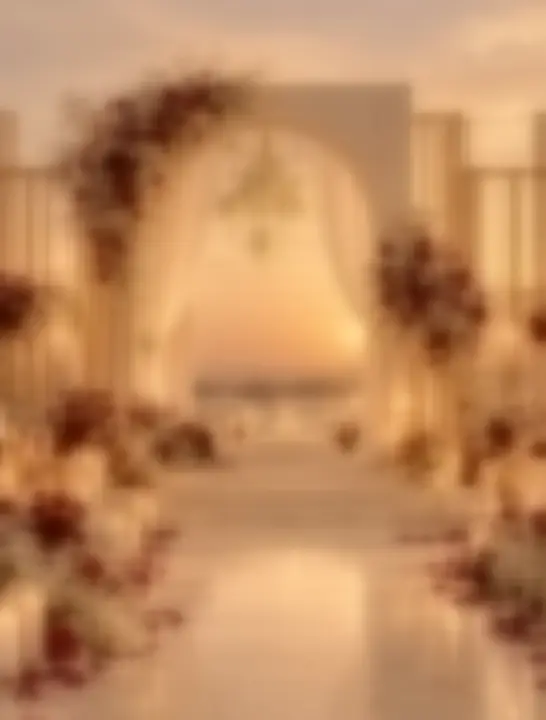
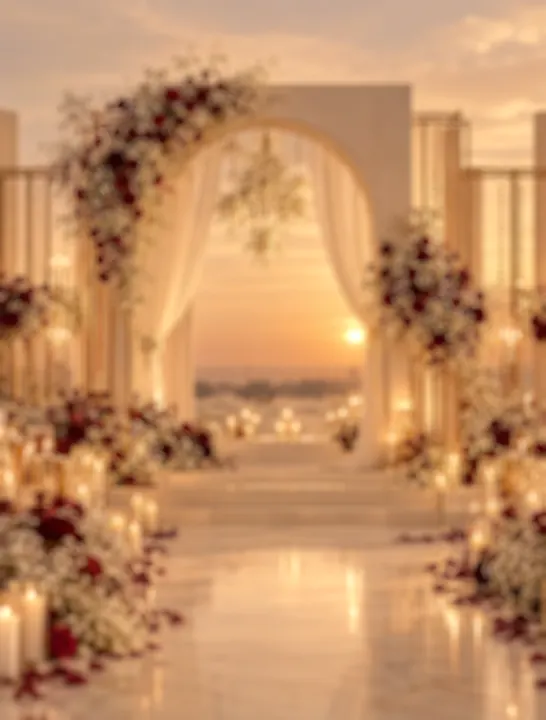
Scroll stops at each moment, camera-style focus, wedding link preview
- Scroll snaps to resting points about a screen apart; one flick never skips the groom, bride or couple
- Focus pulls through two baked lens-blur levels (disc bokeh, scripts/lens-blur.py) with slight breathing; lighter than before
- Drop scroll-speed motion blur; near lanterns and petals get depth-of-field softness instead
- Venue maps use the plain road map instead of satellite
- Nikah at 09:00
- Link preview and details heading invite to the wedding, not the Nikah (og-v3.jpg)

diff --git a/src/scenes/journey.ts b/src/scenes/journey.ts
@@ -9,6 +9,9 @@
  *   0.70  the couple together, "Two hearts, one Nikah"; background softens again (0.70–0.80)
  *   1.00  the details page (#details, normal scrolling) slides up over the couple
  *
+ * Scroll snaps to STOPS (0, 0.12, 0.24, 0.39, 0.555, 0.70, 0.86, 1) and the details page,
+ * so one flick moves one step and never flies past the groom, bride or couple.
+ *
  * Tweak the timeline by editing the numbers marked in each section.
  */
 import { $, clamp, ease, mix, place, prefersReducedMotion, ss } from '../lib/motion';
@@ -30,6 +33,9 @@ const COPY: [string, number, number, number, number][] = [
   ['nameB', 0.47, 0.53, 0.58, 0.62],
   ['together', 0.72, 0.78, 2, 3],
 ];
+/** Resting points about a screen apart, so a short swipe always moves on.
+ *  0.39 the groom, 0.555 the bride and 0.86 the couple sit where their copy is fully shown */
+const STOPS = [0, 0.12, 0.24, 0.39, 0.555, 0.70, 0.86, 1];
 
 export function initJourney() {
   const reduce = prefersReducedMotion();
@@ -48,7 +54,7 @@ export function initJourney() {
   void document.fonts.ready.then(measure);
 
   const night = $('night'), court = $('court'), aisle = $('aisle'), mid = $('mid'), outer = $('outer');
-  const nightSoft = $('nightSoft'), courtSoft = $('courtSoft'), aisleSoft = $('aisleSoft');
+  const nightSoft = [$('nightSoft1'), $('nightSoft')], courtSoft = [$('courtSoft1'), $('courtSoft')], aisleSoft = [$('aisleSoft1'), $('aisleSoft')];
   const pGroom = $('pGroom'), pBride = $('pBride'), couple = $('dCouple');
   const veil = $('veil'), scrim = $('scrim');
   const hint = $('hint'), skip = $('skip'), track = $('track'), details = $('details');
@@ -62,7 +68,7 @@ export function initJourney() {
     el.alt = '';
     el.style.transformOrigin = '50% 0';
     lanternLayer.appendChild(el);
-    return { el, i, X, z0: 1.4 + i * 0.62, drop: 0.25 + ((i * 37) % 5) * 0.08, ph: i * 1.3, ratio: LANTERN_RATIOS[i % 5] };
+    return { el, i, X, z0: 1.4 + i * 0.62, drop: 0.25 + ((i * 37) % 5) * 0.08, ph: i * 1.3, ratio: LANTERN_RATIOS[i % 5], dof: 0 };
   });
 
   const petalCount = reduce ? 0 : innerWidth < 600 ? 12 : 20;
@@ -71,11 +77,14 @@ export function initJourney() {
     el.src = `/img/p${i % PETAL_SPRITES}.webp`;
     el.alt = '';
     el.style.width = `${14 + Math.random() * 24}px`;
+    const d = 0.5 + Math.random();
+    // depth of field: petals near the lens or far behind the focus plane are soft
+    const dof = d > 1.15 ? (d - 1.15) * 5 : d < 0.7 ? (0.7 - d) * 3 : 0;
+    if (dof > 0.2) el.style.filter = `blur(${dof.toFixed(1)}px)`;
     petalLayer.appendChild(el);
-    return { el, x: Math.random(), y: Math.random(), vy: 0.0003 + Math.random() * 0.0005, sw: Math.random() * 6.28, r: Math.random() * 360, vr: (Math.random() - 0.5) * 0.7, d: 0.5 + Math.random() };
+    return { el, x: Math.random(), y: Math.random(), vy: 0.0003 + Math.random() * 0.0005, sw: Math.random() * 6.28, r: Math.random() * 360, vr: (Math.random() - 0.5) * 0.7, d };
   });
 
-  const blurNode = document.getElementById('mblurNode')!;
   const copy = COPY.map(([id, a, b, c, d]) => ({ lines: [...$(id).querySelectorAll<HTMLElement>('.ln')], a, b, c, d }));
 
   let introStart: number | null = null;
@@ -88,6 +97,12 @@ export function initJourney() {
   const read = () => { target = clamp(scrollY / maxScroll()); };
   addEventListener('scroll', read, { passive: true });
   read();
+
+  // scroll snaps to each of these moments (the details page is a stop too, see journey.css)
+  const stops = STOPS.map(() => track.appendChild(Object.assign(document.createElement('div'), { className: 'stop' })));
+  const placeStops = () => stops.forEach((el, i) => { el.style.top = `${Math.round(STOPS[i] * maxScroll())}px`; });
+  placeStops();
+  addEventListener('resize', placeStops);
 
   function placeArch(el: HTMLElement, scale: number, opacity: number) {
     const aw = Math.min(W * 1.22, H * 0.82), ah = aw * 1.3333;
@@ -111,23 +126,22 @@ export function initJourney() {
     cur = reduce ? target : cur + (target - cur) * 0.085;
     const p = cur, dv = p - last;
     last = p;
-    // vertical motion blur that follows scroll speed
-    const blur = reduce ? 0 : Math.min(9, Math.abs(dv) * 2600);
-    blurNode.setAttribute('stdDeviation', `0 ${blur.toFixed(2)}`);
-    const blurFilter = blur > 0.4 ? 'url(#mblur)' : '';
-    if (lanternLayer.style.filter !== blurFilter) lanternLayer.style.filter = blurFilter;
-    if (petalLayer.style.filter !== blurFilter) petalLayer.style.filter = blurFilter;
     const it = introT();
 
     // backgrounds: golden sky → courtyard seen through the arches (0.22) → candlelit aisle (0.64)
-    // focus: the background drops out of focus behind the groom and bride (0.30–0.58),
-    // snaps sharp as we walk through the candle arch, then softens behind the couple (0.70+)
+    // focus: a focus pull, like a camera. The background drops out of focus behind the groom and bride
+    // (0.30–0.38), racks back sharp as we walk through the candle arch (0.57–0.63), then softens behind
+    // the couple (0.70–0.80). Blur grows through two baked lens levels (scripts/lens-blur.py), and the
+    // picture breathes (scales a touch) as focus moves, as real lenses do.
     // gone before the doors part, so they open straight onto the scene
     veil.style.opacity = String(1 - ss(0, 0.2, it));
     const focus = ss(0.30, 0.38, p) * (1 - ss(0.57, 0.63, p)) + ss(0.70, 0.80, p);
-    const bg = (el: HTMLElement, soft: HTMLElement, s: number, o: number) => {
+    const breathe = 1 + focus * 0.014;
+    const bg = (el: HTMLElement, [near, far]: HTMLElement[], s: number, o: number) => {
+      s *= breathe;
       place(el, 0, 0, s, o);
-      place(soft, 0, 0, s, o * focus);
+      place(near, 0, 0, s, o * clamp(focus * 2));
+      place(far, 0, 0, s, o * clamp(focus * 2 - 1));
     };
     bg(night, nightSoft, (1.06 + ease(0, 0.3, p) * 0.1) * mix(1.08, 1, ease(0, 1, it)), 1 - ss(0.22, 0.30, p));
     bg(court, courtSoft, mix(1.15, 1.02, ease(0.22, 0.6, p)), ss(0.22, 0.30, p) * (1 - ss(0.64, 0.72, p)));
@@ -168,6 +182,9 @@ export function initJourney() {
       const on = ss(0.18 + L.i * 0.05, 0.45 + L.i * 0.05, it);
       const x = W / 2 + Math.sign(L.X) * (W * 0.12 + Math.abs(L.X) * s * 0.62) - w / 2;
       const bottom = horizon - (1.0 - L.drop * 0.6) * s;
+      // depth of field: a lantern passing close over the lens goes soft (in 0.5px steps, set only on change)
+      const dof = reduce ? 0 : Math.round(clamp((1.3 - z) * 4, 0, 3.5) * 2) / 2;
+      if (dof !== L.dof) { L.dof = dof; L.el.style.filter = dof ? `blur(${dof}px)` : ''; }
       L.el.style.width = `${w}px`;
       L.el.style.paddingTop = `${H}px`;
       place(L.el, x, bottom - h - H, 1, lOp * on * clamp((6 - z) / 2) * clamp((z - 0.35) / 0.3), sway);

diff --git a/src/render.ts b/src/render.ts
@@ -62,8 +62,8 @@ function person(id: string, label: string, p: typeof c.groom | typeof c.bride) {
 }
 
 function event(e: (typeof c.events)[number]) {
-  // t=h: satellite with road and place labels
-  const embed = `https://maps.google.com/maps?q=${encodeURIComponent(e.coords)}&t=h&z=17&output=embed`;
+  // t=m: the plain road map, not satellite
+  const embed = `https://maps.google.com/maps?q=${encodeURIComponent(e.coords)}&t=m&z=16&output=embed`;
   return `
     <article class="ev">
       <span class="eyebrow">${esc(e.label)}</span>
@@ -89,7 +89,7 @@ function details() {
 <main id="details" aria-label="Wedding details">
   <section class="d-sec">
     <div class="bism" lang="ar">${c.bismillah}</div>
-    <span class="eyebrow">We invite you to the Nikah of</span>
+    <span class="eyebrow">We invite you to the wedding of</span>
     <h2 class="name">${esc(c.groom.name)}<br><span class="amp">&amp;</span> ${esc(c.bride.name)}</h2>
     <img class="orn" src="/img/ornament.webp" alt="">
     <div class="dateline"><span>${c.date.weekday}</span><b>${longDate()}</b></div>
@@ -131,12 +131,14 @@ function details() {
 function stage() {
   return `
 <div id="stage">
-  <svg width="0" height="0" style="position:absolute" aria-hidden="true"><filter id="mblur" x="-20%" y="-30%" width="140%" height="160%"><feGaussianBlur id="mblurNode" stdDeviation="0 0"/></filter></svg>
   <img class="full" id="night" src="/img/sky.webp" alt="">
+  <img class="full soft" id="nightSoft1" src="/img/sky-soft1.webp" alt="">
   <img class="full soft" id="nightSoft" src="/img/sky-soft.webp" alt="">
   <img class="full" id="court" src="/img/courtyard.webp" alt="">
+  <img class="full soft" id="courtSoft1" src="/img/courtyard-soft1.webp" alt="">
   <img class="full soft" id="courtSoft" src="/img/courtyard-soft.webp" alt="">
   <img class="full" id="aisle" src="/img/aisle.webp" alt="">
+  <img class="full soft" id="aisleSoft1" src="/img/aisle-soft1.webp" alt="">
   <img class="full soft" id="aisleSoft" src="/img/aisle-soft.webp" alt="">
 
   <div class="group" id="mid"><img class="archimg" src="/img/arch-mid.webp" alt=""></div>

diff --git a/index.html b/index.html
@@ -4,14 +4,14 @@
     <meta charset="utf-8" />
     <meta name="viewport" content="width=device-width, initial-scale=1, viewport-fit=cover" />
     <meta name="theme-color" content="#f8efe2" />
-    <title>Junaid &amp; Rafeeda · Nikah</title>
-    <meta name="description" content="You are invited to the Nikah of Junaid Raziq &amp; Rafeeda · Sunday, 13 December 2026 · Kundoor, Kerala" />
+    <title>Junaid &amp; Rafeeda · Wedding</title>
+    <meta name="description" content="You are invited to the wedding of Junaid Raziq &amp; Rafeeda · Sunday, 13 December 2026 · Kundoor, Kerala" />
 
     <!-- Link preview for WhatsApp, Instagram and others -->
     <meta property="og:type" content="website" />
-    <meta property="og:title" content="Junaid &amp; Rafeeda · Nikah" />
+    <meta property="og:title" content="Junaid &amp; Rafeeda · Wedding" />
     <meta property="og:description" content="Sunday, 13 December 2026 · Kundoor, Kerala. Tap to open your invitation." />
-    <meta property="og:image" content="%VITE_SITE_URL%/og-v2.jpg" />
+    <meta property="og:image" content="%VITE_SITE_URL%/og-v3.jpg" />
     <meta property="og:image:width" content="1200" />
     <meta property="og:image:height" content="630" />
     <meta property="og:url" content="%VITE_SITE_URL%/" />

diff --git a/src/styles/journey.css b/src/styles/journey.css
@@ -1,4 +1,8 @@
-#track{height:740vh}
+#track{height:740vh;position:relative}
+/* the journey rests at each moment: a flick moves one moment on, never past one */
+html:not(.locked){scroll-snap-type:y mandatory}
+.stop,#details{scroll-snap-align:start;scroll-snap-stop:always}
+.stop{position:absolute;left:0;width:1px;height:1px}
 /* sized to the largest viewport so the scene never resizes while the phone's toolbar slides;
    --bar is the toolbar's height, used to keep bottom content above it */
 #stage{position:fixed;top:0;height:100vh;height:100lvh;left:50%;width:var(--app-w);transform:translateX(-50%);overflow:hidden;--bar:0px}

diff --git a/src/content.ts b/src/content.ts
@@ -51,7 +51,7 @@ export const content = {
   events: [
     {
       label: 'Nikah',
-      time: '10:00',
+      time: '09:00',
       place: 'Kundoor Gousiya',
       area: 'Kundoor, Nannambra',
       mapUrl:

diff --git a/scripts/lens-blur.py b/scripts/lens-blur.py
@@ -1,0 +1,55 @@
+"""Bake out-of-focus versions of the backgrounds, the way a lens defocuses.
+
+A disc kernel (not a gaussian) in linear light, so candles and bright sky bloom
+into round bokeh instead of smearing into fog.
+
+    python3 scripts/lens-blur.py
+
+Writes public/img/<name>-soft1.webp (slightly out of focus) and <name>-soft.webp (fully).
+"""
+import subprocess
+from pathlib import Path
+
+import numpy as np
+from PIL import Image
+
+IMG = Path(__file__).resolve().parent.parent / 'public' / 'img'
+NAMES = ['sky', 'courtyard', 'aisle']
+# (suffix, scale of the output, disc radius in px of the full-size image)
+LEVELS = [('soft1', 0.75, 4), ('soft', 0.5, 10)]
+
+
+def disc(r: float) -> np.ndarray:
+    n = int(np.ceil(r))
+    y, x = np.mgrid[-n:n + 1, -n:n + 1]
+    # soft 1px rim so the bokeh edge is round, not stepped
+    k = np.clip(r + 0.5 - np.hypot(x, y), 0, 1)
+    return k / k.sum()
+
+
+def convolve(a: np.ndarray, k: np.ndarray) -> np.ndarray:
+    h, w = a.shape[:2]
+    n = k.shape[0] // 2
+    pad = np.pad(a, ((n, n), (n, n), (0, 0)), mode='reflect')
+    H, W = pad.shape[:2]
+    kf = np.fft.rfft2(k, s=(H, W))
+    out = np.fft.irfft2(np.fft.rfft2(pad, axes=(0, 1)) * kf[..., None], s=(H, W), axes=(0, 1))
+    return out[2 * n:2 * n + h, 2 * n:2 * n + w]
+
+
+for name in NAMES:
+    src = Image.open(IMG / f'{name}.webp').convert('RGB')
+    for suffix, scale, radius in LEVELS:
+        size = (round(src.width * scale), round(src.height * scale))
+        a = np.asarray(src.resize(size, Image.LANCZOS), dtype=np.float64) / 255
+        lin = a ** 2.2
+        # lift highlights a touch so they spread into bokeh like real light does
+        lum = lin.mean(axis=2, keepdims=True)
+        lin = lin * (1 + 1.5 * np.clip(lum - 0.6, 0, None))
+        out = convolve(lin, disc(radius * scale))
+        out = np.clip(out, 0, 1) ** (1 / 2.2)
+        png = IMG / f'{name}-{suffix}.png'
+        Image.fromarray((out * 255 + 0.5).astype(np.uint8)).save(png)
+        subprocess.run(['cwebp', '-quiet', '-q', '78', str(png), '-o', str(IMG / f'{name}-{suffix}.webp')], check=True)
+        png.unlink()
+        print(name, suffix, size)
